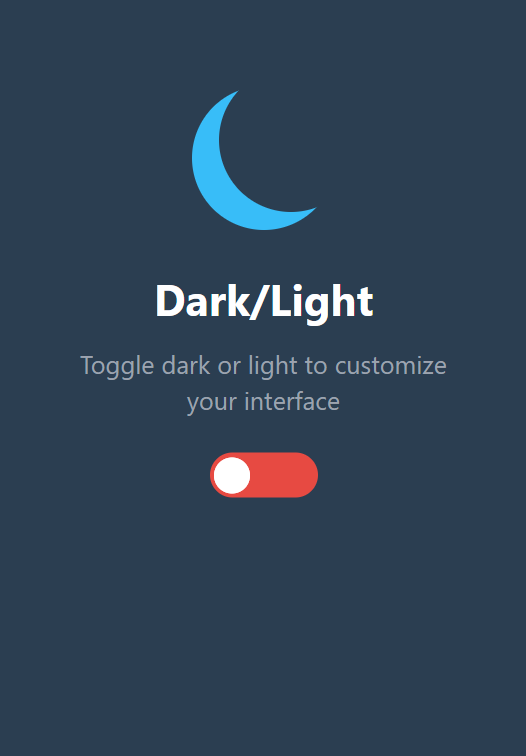
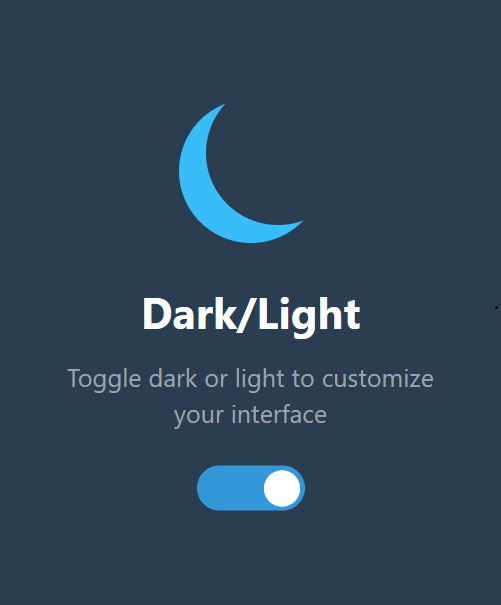
readme commit

diff --git a/src/components/toggle/Toggle.jsx b/src/components/toggle/Toggle.jsx
@@ -21,7 +21,7 @@ export const Toggle = () => {
                 id="toggler"
                 type="checkbox"
                 onClick={onChangeTheme}
-                checked={theme !== themes.dark}
+                checked={theme !== themes.light}
                 readOnly
             />
             <span className={s.slider}/>
